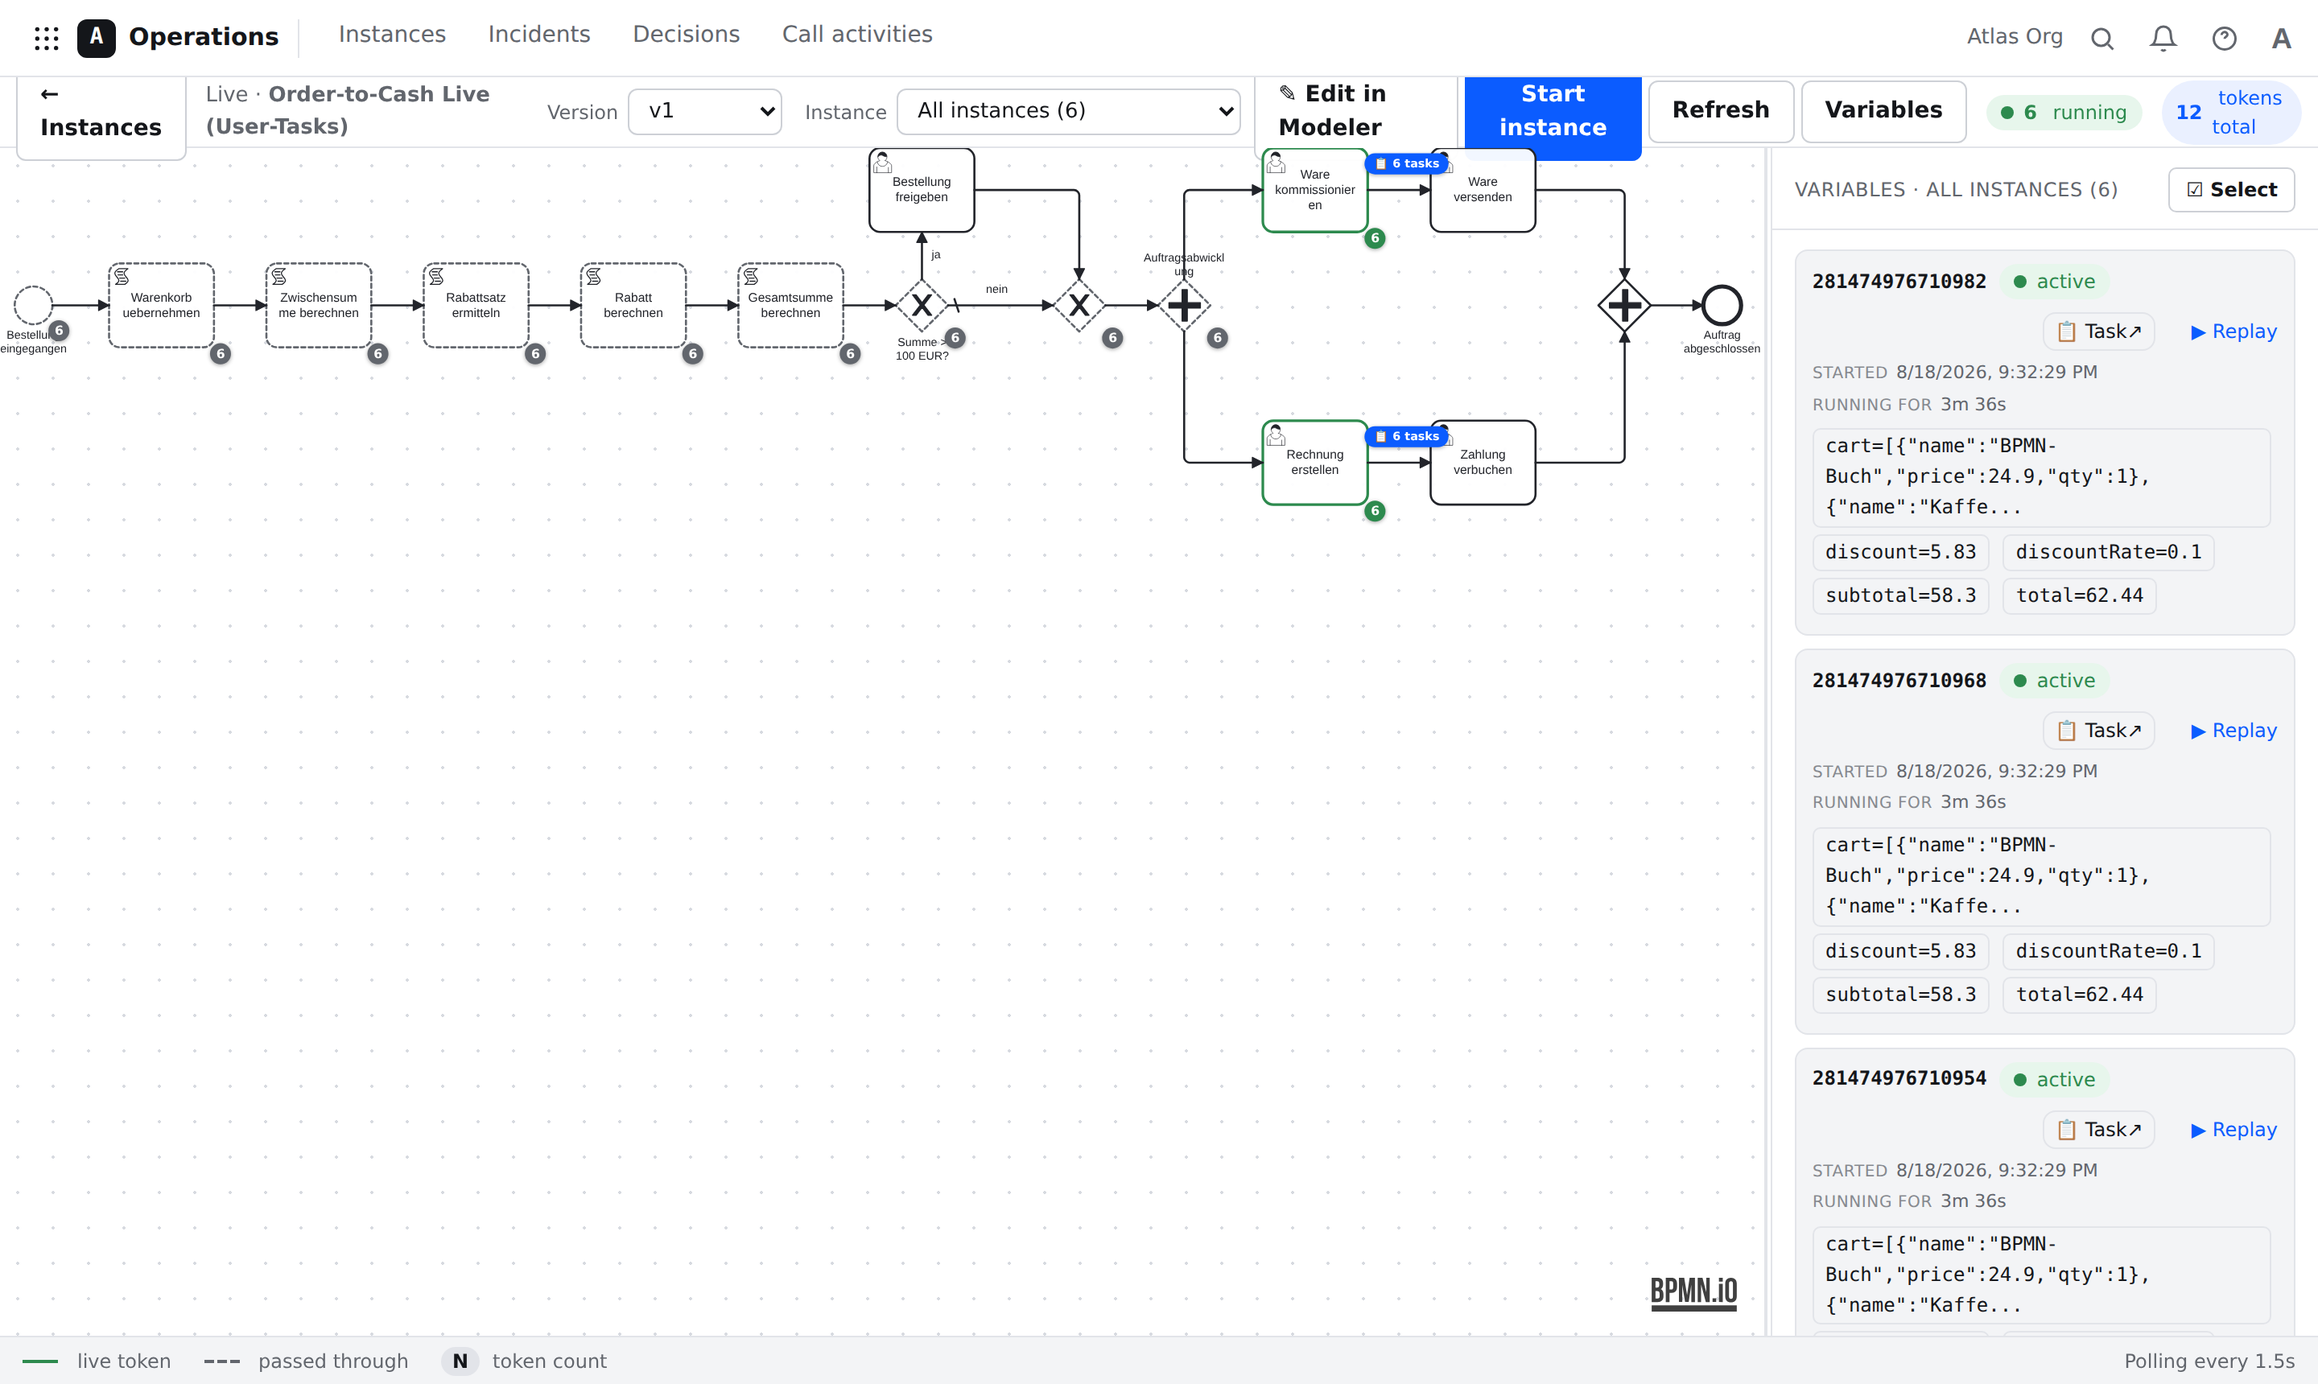
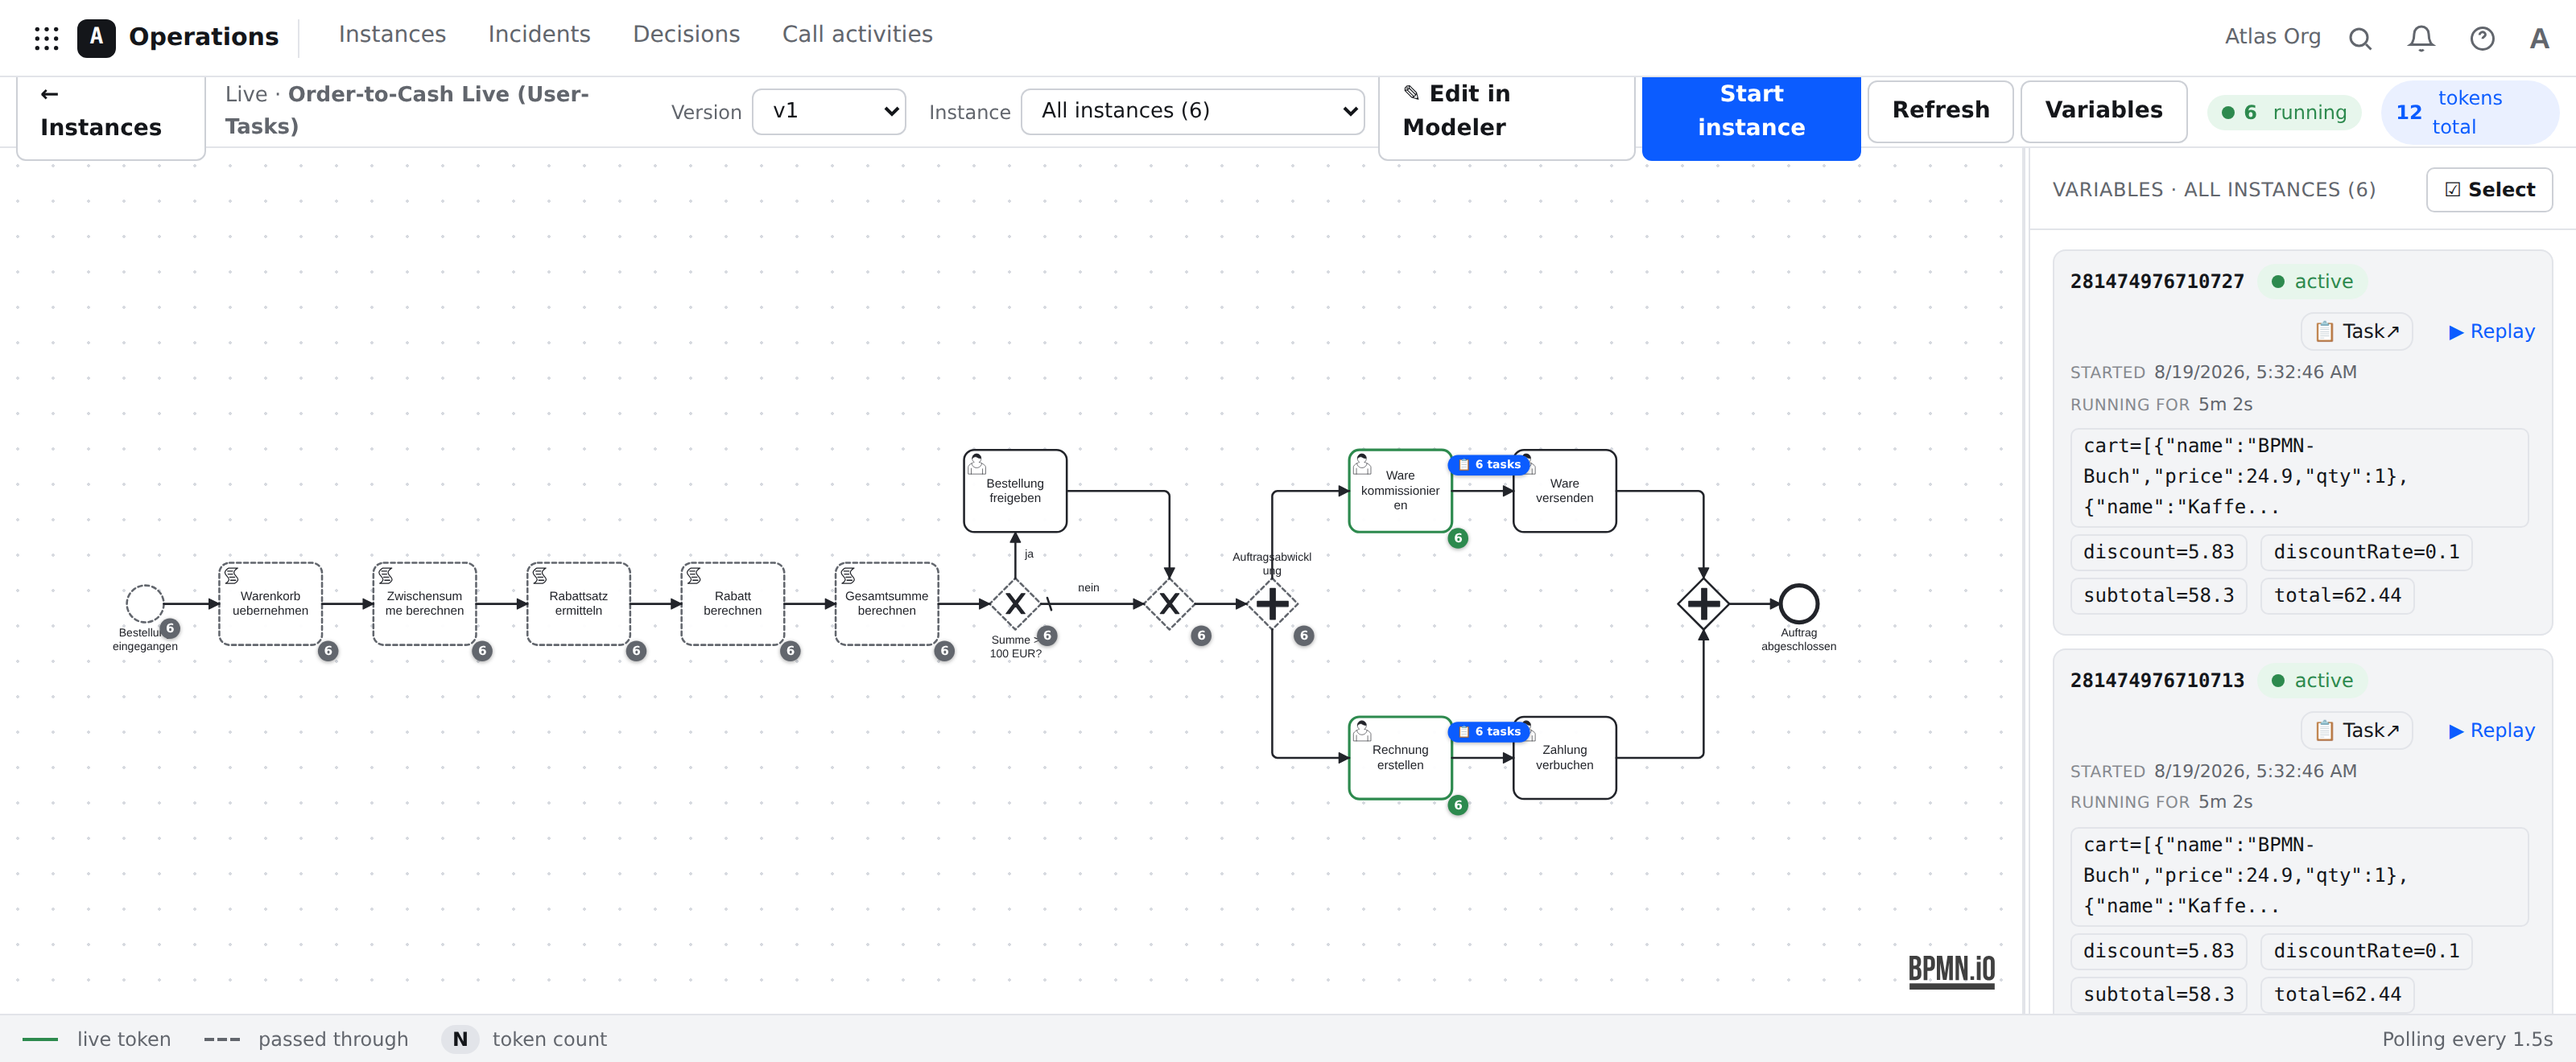
docs(screenshots): reframe the live-view shot so the diagram clears the toolbar
The Operations live view fits its diagram edge to edge — `fit-viewport` leaves
no padding — so the top row of shapes and their "N tasks" badges butted
straight against the toolbar above the canvas, and the start event was cut off
at the left edge. The screenshot showed the collision rather than the feature.

Recaptured with the diagram zoomed out one notch and centered, so it sits
inside a margin on all four sides.

The framing has to go through real wheel events rather than a hand-written
`.viewport` transform: the token counters and "N tasks" badges are HTML
overlays that diagram-js positions separately, so writing the transform
directly moved the shapes and left every badge behind, scattered across empty
canvas. Recorded that in the screenshots README along with the padding note,
since it is not obvious and costs a full recapture to rediscover.

diff --git a/docs/screenshots/README.md b/docs/screenshots/README.md
@@ -49,16 +49,31 @@ dependency, so the simplest route is a throwaway script run from that directory.
    });
    ```
 
-   Two details are worth keeping, because they are what separates a usable shot
-   from a cluttered one:
+   Three details are worth keeping, because they are what separates a usable
+   shot from a cluttered one:
 
-   - **Frame the diagram yourself.** `canvas.zoom('fit-viewport')` centers the
-     model but lets the floating palette cover its left edge. Re-set the viewbox
-     afterwards with a larger left pad (~170px) so the start event stays clear.
-     The Modeler exposes its bpmn-js instance as `window.__atlasModeler`.
+   - **Frame the diagram yourself.** `canvas.zoom('fit-viewport')` fits the model
+     edge to edge with *no* padding: in the Modeler the floating palette then
+     covers the start event, and in the Operations live view the top row of
+     shapes runs straight into the toolbar above the canvas. Leave a margin —
+     in the Modeler by re-setting the viewbox with a larger left pad (~170px),
+     in the live view by zooming out a notch and re-centering.
+   - **In the live view, pan and zoom with real wheel events**, not by writing
+     the `.viewport` transform. The token counters and "N tasks" badges are HTML
+     overlays that diagram-js positions separately, so a hand-written transform
+     moves the shapes and leaves the badges behind, scattered across the canvas.
+     `mouse.wheel(dx, dy)` pans and `Control` + `mouse.wheel` zooms through the
+     real handlers, and the overlays follow. The Modeler exposes its bpmn-js
+     instance as `window.__atlasModeler`; the live view exposes none.
    - **Hide the hover-only context pad** (`.djs-context-pad, .djs-popup
      { display: none }`) when an element is selected — the properties panel
      already shows the selection, and the pad only floats over the model.
+
+Measure the frame rather than eyeballing it: read the content box back from
+`viewport.getBBox()` and the container's rect, and assert the diagram sits
+inside the padding on all four sides. Note that on the live view the bbox
+fluctuates while tokens animate, so converge on it in a loop with a tolerance
+instead of solving for it once.
 
 Keep the viewport height close to the content: a wide, short BPMN diagram in a
 tall window is mostly empty canvas.
